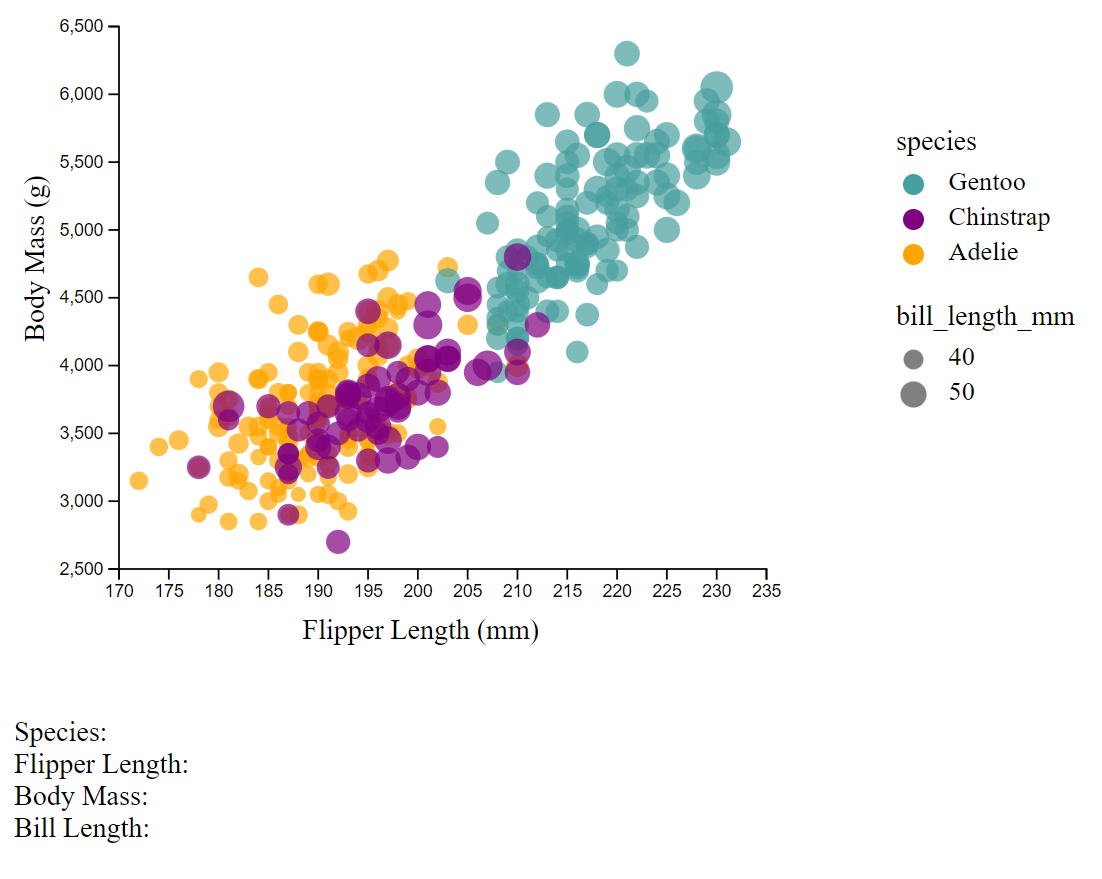
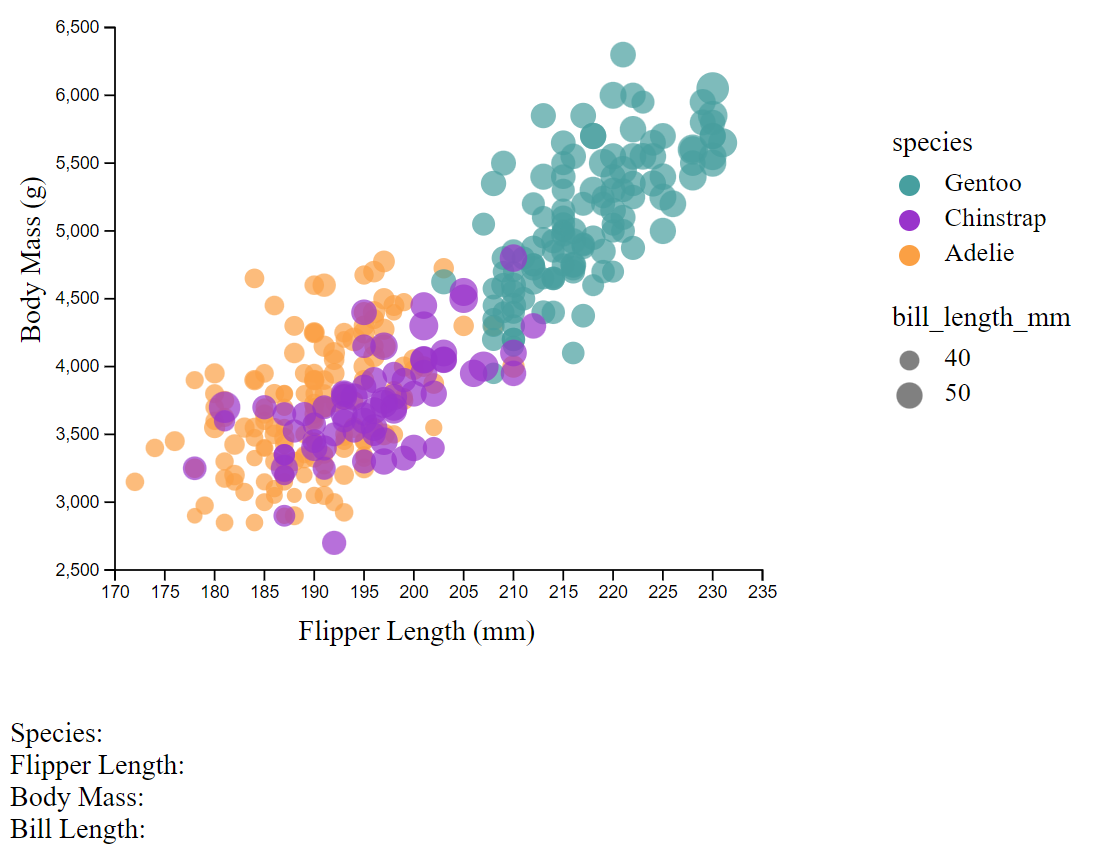
fixed colors

Changed region(s): [[0.0, 0.0, 0.7148, 0.7541], [0.808, 0.1508, 0.9945, 0.4826], [0.0, 0.8144, 0.1865, 0.9954]]

diff --git a/d3/index.html b/d3/index.html
@@ -68,9 +68,9 @@
           if (d.species === "Gentoo") {
             return "#479f9f";
           } else if (d.species === "Chinstrap") {
-            return "purple";
+            return "#9933cb";
           } else {
-            return "orange";
+            return "#fba044";
           }
         })
         .on("mouseover", function (d, i) {
@@ -149,13 +149,13 @@
       .attr("cx", 50)
       .attr("cy", 70)
       .attr("r", 6)
-      .style("fill", "purple");
+      .style("fill", "#9933cb");
     legend
       .append("circle")
       .attr("cx", 50)
       .attr("cy", 90)
       .attr("r", 6)
-      .style("fill", "orange");
+      .style("fill", "#fba044");
     legend
       .append("text")
       .attr("x", 70)

diff --git a/README.md b/README.md
@@ -21,12 +21,14 @@ Since every element had to be created manually, the effort involved with this vi
 
 This visualization tool was extremely easy to use.
 It takes almost no effort (one line) to create a very nice looking graph and legend from the data.
+These tools are used a lot to preprocess and explore data when viewing data for AI / ML
 To visualize the data, all you have to do is pass load the csv with pandas,
 then use seaborn and matplotlib tools to plot this data.
 When you make differentiate things by color, or size (ex. species and bill_depth_mm)
 the program automatically creates a legend for you.
 The program also offers a good amount of customizability, allowing the user to choose things in depth,
 while also offering many different themes that work out of the box.
+To get the chart to closer mimic the example plot, I had to change a few of the pre-set stylings, such as the color.
 
 ![seaborn_plot](./img/seaborn.png)
 
@@ -34,18 +36,33 @@ while also offering many different themes that work out of the box.
 
 [1](https://stackoverflow.com/questions/14885895/color-a-scatter-plot-by-column-values)
 
-### Design Achievements
-
-Some of the design achievements that I attempted to achieve is clearly showing the visualization to the user.
-I also clearly allowed the user to see which element they were hovering on in the main visualization by
-having a red circle (as can be seen in photo 2).
-This, linked with the detailed numbers shown on the bottom depending on which element is hovered on provides
-a good experience for the user.
-
 ### Technical Achievements
 
-Some of the technical achievements I achieved, was showing an element's detailed information on hover in D3.
+#### Showing an Element's Detailed information on Hover in D3
+
 I did this by adding "mousehover" and "mouseoff" elements to each circle when it was drawn.
 When the user hovers over the element, the bottom updates with the information relevant to that element,
-as well as adds a red outline to show which element is being hovered over.
+
+#### Showing a Red Circle Around Hovered Item in D3
+
+I did this by also using the "mousehover" and "mouseoff" elements.
+When the user hovers over an element, I add a red outline to the selected element so the user knows which element is selected
 When the user stops hovering, this red outline goes away, and the information on the bottom disappears.
+
+### Design Achievements
+
+#### Clear Legend on All Charts
+
+For every chart, I included a legend showing which species corresponded with which color,
+as well as an example circle size for the bill_length_mm value
+
+#### Consistent Color Choice
+
+For every chart, I used the same colors, matching the hex colors used in the example plot.
+
+#### Allow User to See Which Element is Being Hovered
+
+I clearly allowed the user to see which element they were hovering on in the main visualization by
+having a red circle (as can be seen in photo 2 in the D3 section).
+This, linked with the detailed numbers shown on the bottom depending on which element is hovered on provides
+a good experience for the user.
